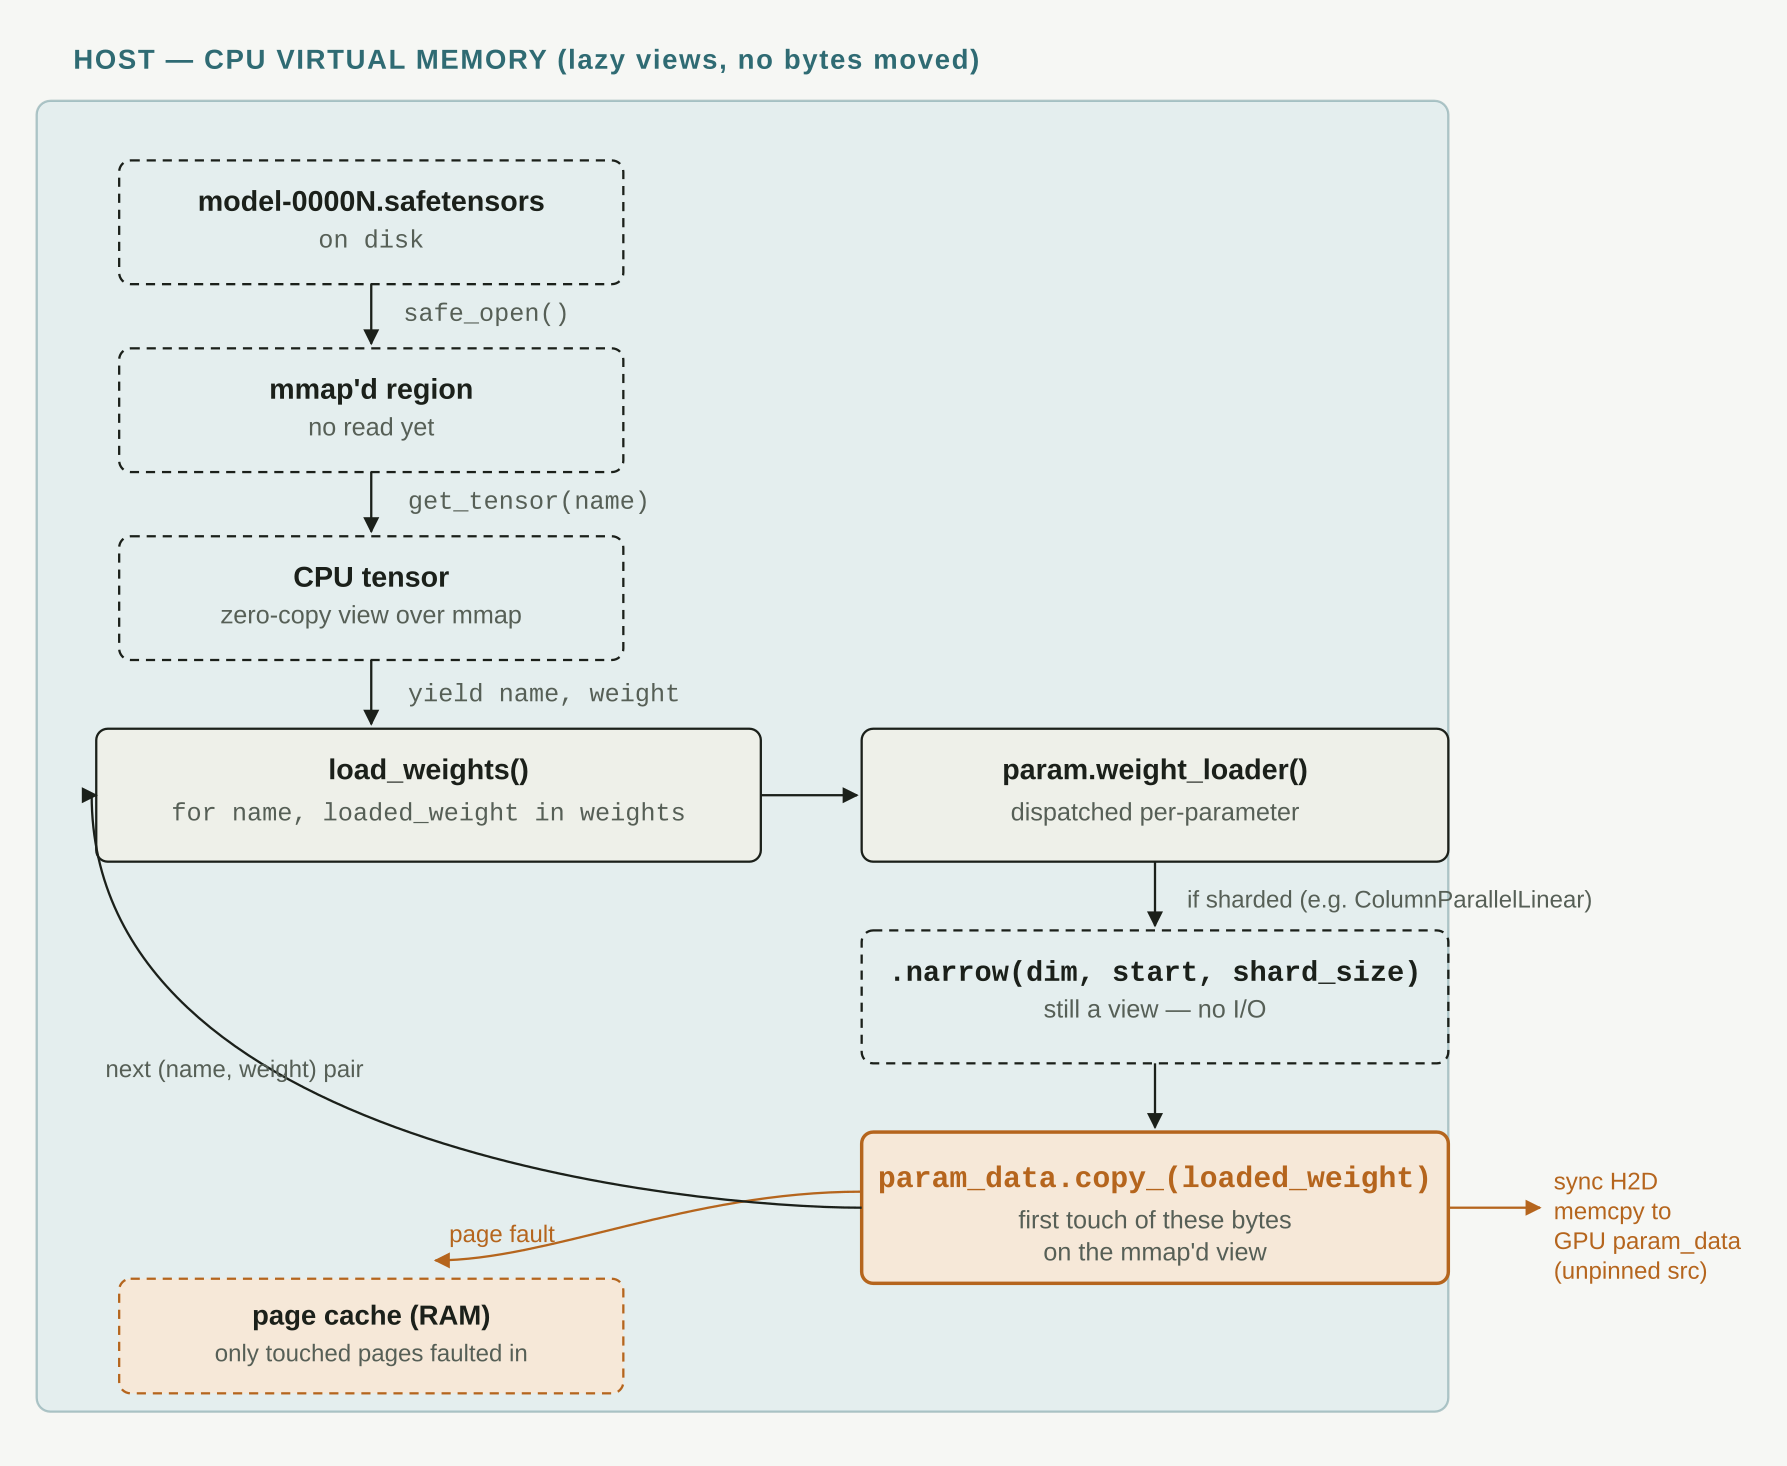
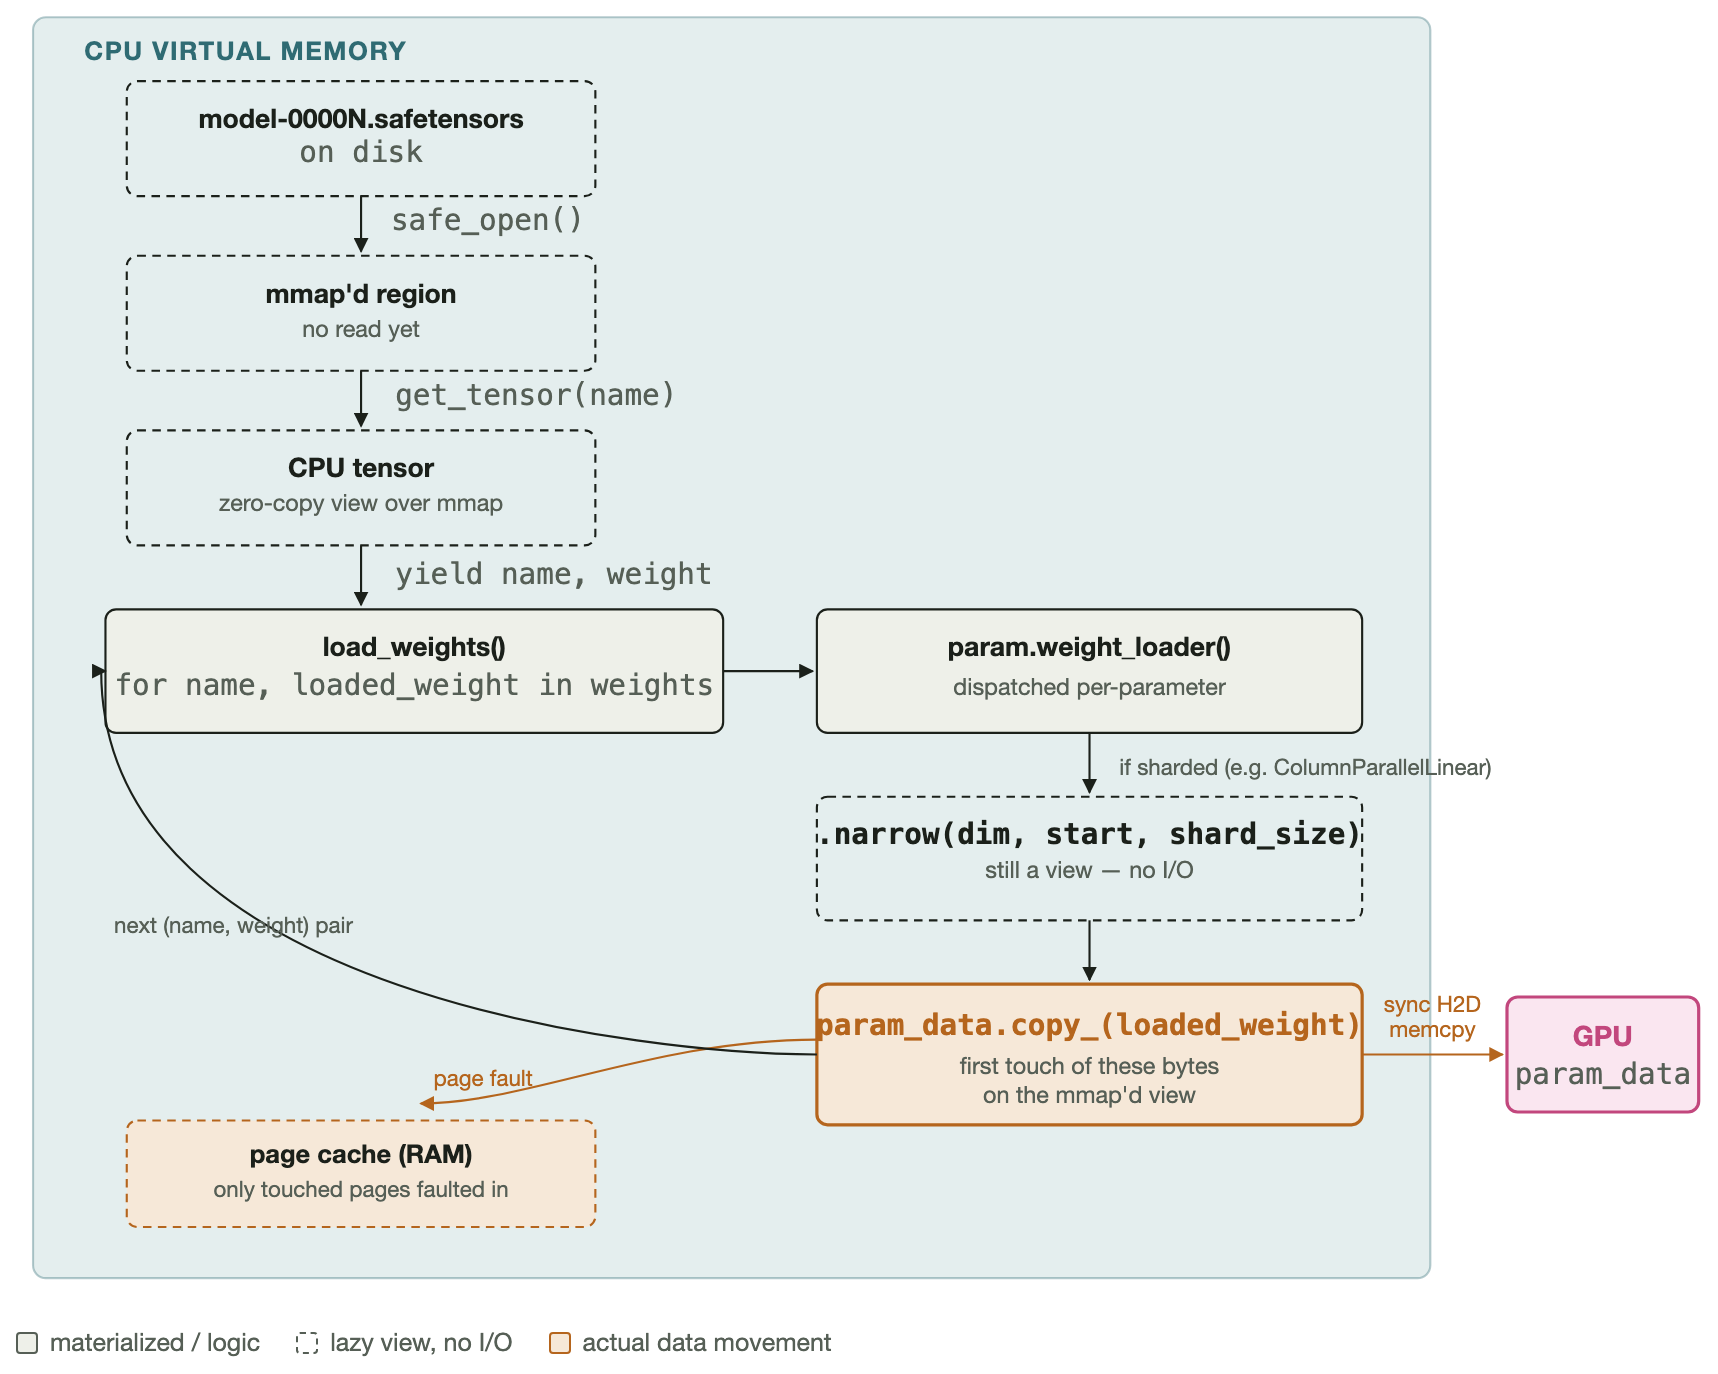
docs: rename Final Thoughts to Conclusion, refresh weight-loading diagram

diff --git a/frontend/src/content/articles/05-servekit/index.md b/frontend/src/content/articles/05-servekit/index.md
@@ -191,7 +191,7 @@ This sweep uses SGLang v0.5.16 (image `lmsysorg/sglang:v0.5.16`).
 | `--load-format fastsafetensors` | - One flag, significant speedups | - Doesn't work for multi-node yet; GLM-4.7 result needed a patched version<br>- Scales badly with node count due to costly NCCL through Slingshot |
 | servekit | - Fastest across all models<br>- If model size scales linearly with node count, weight size loaded per node is constant and so is time (see Llama vs. GLM-4.7, 14s vs. 16s) | - Slower first run<br>- Relies on `ShardedStateLoader`, a correctness check is needed |
 
-## Final Thoughts
+## Conclusion
 
 We hope this post is useful if you are facing slow weight-loading times on HDD-backed Lustre storage. The approach described here is packaged in [`servekit`](https://github.com/eth-easl/servekit) and can be used as a drop-in wrapper around SGLang.
 
